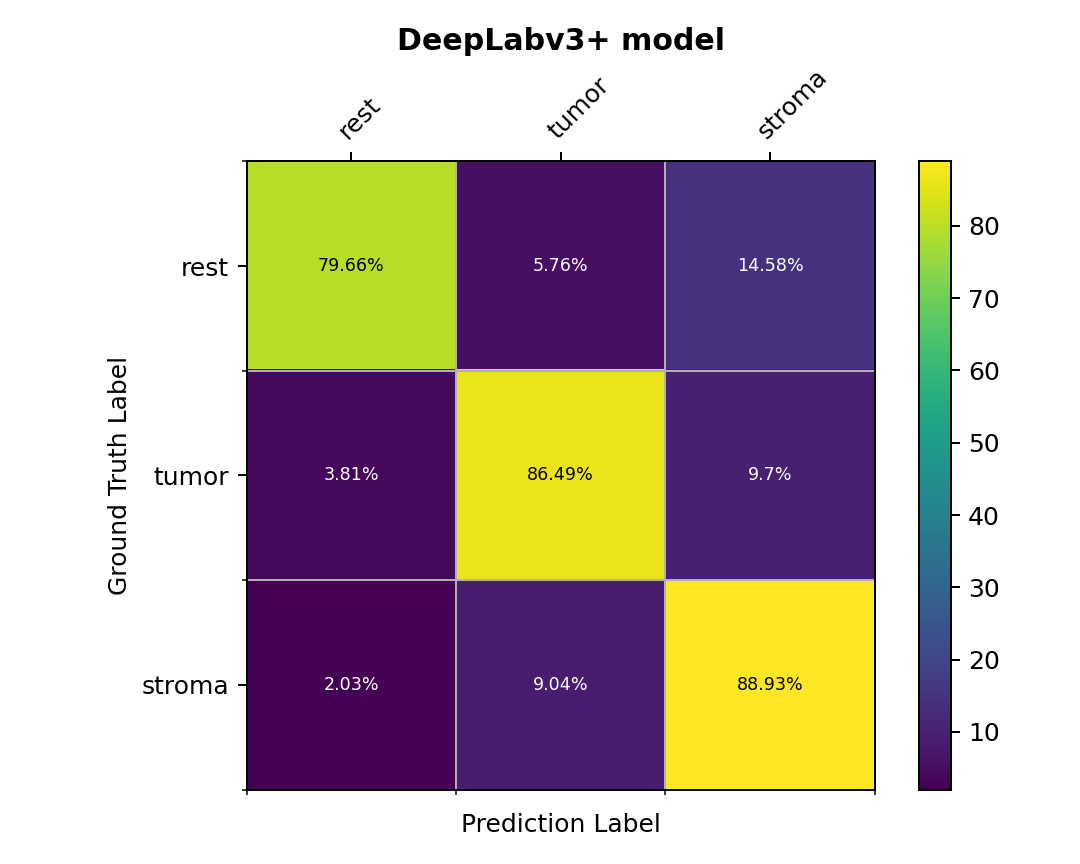
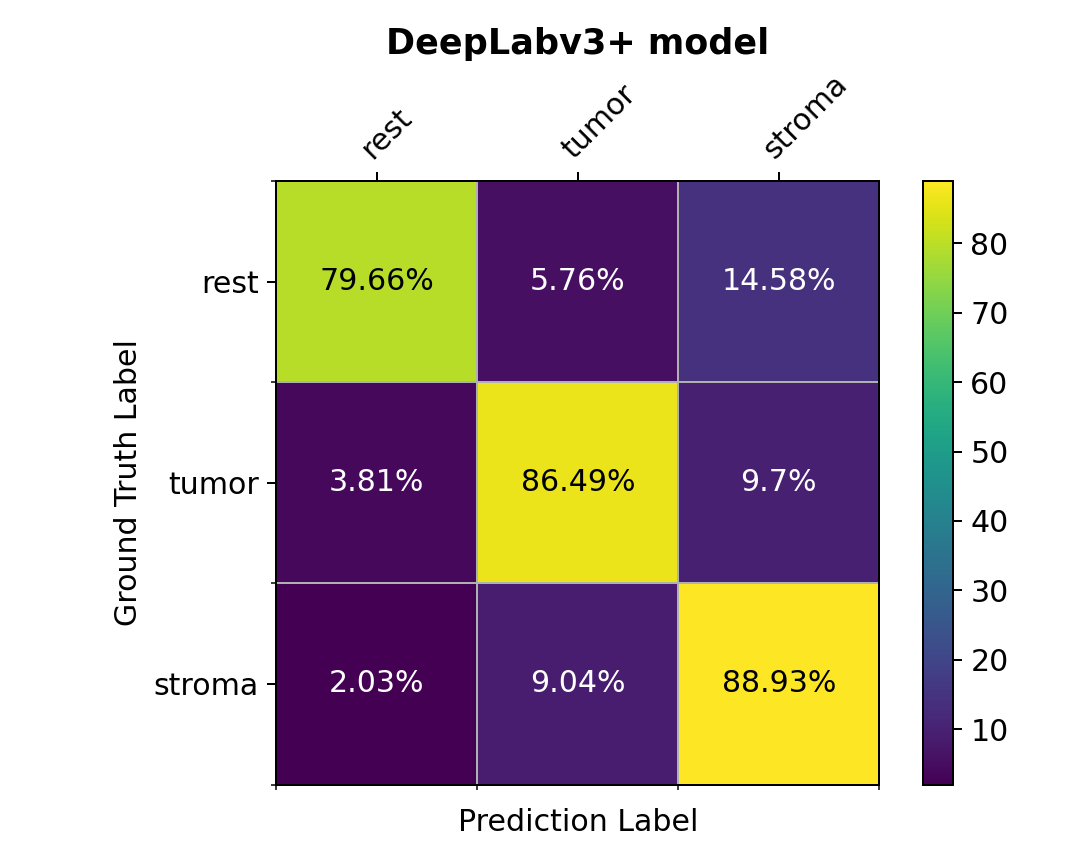
added first result images into text

diff --git a/chapters/05_results.tex b/chapters/05_results.tex
@@ -1,10 +1,95 @@
 \chapter{Results}
+\section{Tissue Segmentation}
 \begin{figure}
+\includegraphics[width=\linewidth]{figures/tissue/conf_matrices.png}
+\caption{EXAMPLES for TILs prediction models. A lot of test comming up here.}
+\label{fig:figure3}
+\end{figure}
 
+\begin{figure}
+\includegraphics[width=\linewidth]{figures/tissue/dices.png}
+\caption{EXAMPLES for TILs prediction models. A lot of test comming up here.}
+\label{fig:figure3}
+\end{figure}
+
+
+\begin{figure}
+\includegraphics[width=.5\linewidth]{figures/tissue/deeplabv3+_prec_roi_wsirois.png}
+\includegraphics[width=.5\linewidth]{figures/tissue/deeplabv3+_recall_roi_wsirois.png}
+
+\includegraphics[width=.5\linewidth]{figures/tissue/segformer_prec_roi_wsirois.png}
+\includegraphics[width=.5\linewidth]{figures/tissue/segformer_recall_roi_wsirois.png}
+
+\includegraphics[width=.5\linewidth]{figures/tissue/segformer,_adamw_prec_roi_wsirois.png}
+\includegraphics[width=.5\linewidth]{figures/tissue/segformer,_adamw_recall_roi_wsirois.png}
+
+\caption{EXAMPLES for TILs prediction models. A lot of test comming up here.}
+\label{fig:figure3}
+\end{figure}
+
+\begin{figure}
+\includegraphics[width=\linewidth]{figures/tissue/deeplabv3+_dice_s_250B_[16272, 25312, 17441, 26473]_check.png}
+\includegraphics[width=\linewidth]{figures/tissue/segformer_dice_s_250B_[16272, 25312, 17441, 26473]_check.png}
+\includegraphics[width=\linewidth]{figures/tissue/segformer,_adamw_dice_s_250B_[16272, 25312, 17441, 26473]_check.png}
+
+\caption{EXAMPLES for TILs prediction models. A lot of test comming up here.}
+\label{fig:figure3}
+\end{figure}
+
+\begin{figure}
+\includegraphics[width=\linewidth]{figures/tissue/deeplabv3+_dice_s_250B_[29477, 26912, 30725, 28086]_check.png}
+\includegraphics[width=\linewidth]{figures/tissue/segformer_dice_s_250B_[29477, 26912, 30725, 28086]_check.png}
+\includegraphics[width=\linewidth]{figures/tissue/segformer,_adamw_dice_s_250B_[29477, 26912, 30725, 28086]_check.png}
+
+\caption{EXAMPLES for TILs prediction models. A lot of test comming up here.}
+\label{fig:figure3}
+\end{figure}
+
+\begin{figure}
+\includegraphics[width=\linewidth]{figures/tissue/deeplabv3+_dice_tc_TC_S01_P000159_C0001_B108_[18565, 51594, 19649, 52655]_check.png}
+\includegraphics[width=\linewidth]{figures/tissue/segformer_dice_tc_TC_S01_P000159_C0001_B108_[18565, 51594, 19649, 52655]_check.png}
+\includegraphics[width=\linewidth]{figures/tissue/segformer,_adamw_dice_tc_TC_S01_P000159_C0001_B108_[18565, 51594, 19649, 52655]_check.png}
+
+\caption{EXAMPLES for TILs prediction models. A lot of test comming up here.}
+\label{fig:figure3}
+\end{figure}
+
+\begin{figure}
+\includegraphics[width=\linewidth]{figures/tissue/deeplabv3+_dice_tcga_TCGA-GM-A2DF-01Z-00-DX1.CD0BE6D7-2DB3-4193-84CC-F9BE7BF18CC2_[25322, 21890, 27778, 24293]_check.png}
+\includegraphics[width=\linewidth]{figures/tissue/segformer_dice_tcga_TCGA-GM-A2DF-01Z-00-DX1.CD0BE6D7-2DB3-4193-84CC-F9BE7BF18CC2_[25322, 21890, 27778, 24293]_check.png}
+\includegraphics[width=\linewidth]{figures/tissue/segformer,_adamw_dice_tcga_TCGA-GM-A2DF-01Z-00-DX1.CD0BE6D7-2DB3-4193-84CC-F9BE7BF18CC2_[25322, 21890, 27778, 24293]_check.png}
+
+\caption{EXAMPLES for TILs prediction models. A lot of test comming up here.}
+\label{fig:figure3}
+\end{figure}
+
+\begin{figure}
+\includegraphics[width=\linewidth]{figures/tissue/deeplabv3+_dice_tcga_TCGA-EW-A1P4-01Z-00-DX1.3E9AE553-83D4-4B09-AB7F-D096BCE3BC4D_[8630, 17717, 11173, 19809]_check.png}
+\includegraphics[width=\linewidth]{figures/tissue/segformer_dice_tcga_TCGA-EW-A1P4-01Z-00-DX1.3E9AE553-83D4-4B09-AB7F-D096BCE3BC4D_[8630, 17717, 11173, 19809]_check.png}
+\includegraphics[width=\linewidth]{figures/tissue/segformer,_adamw_dice_tcga_TCGA-EW-A1P4-01Z-00-DX1.3E9AE553-83D4-4B09-AB7F-D096BCE3BC4D_[8630, 17717, 11173, 19809]_check.png}
+
+\caption{EXAMPLES for TILs prediction models. A lot of test comming up here.}
+\label{fig:figure3}
+\end{figure}
+
+\section{TILs Segmentation}
+
+\begin{figure}
+\includegraphics[width=.5\linewidth]{figures/tils/deeplabv3+_f1_kappas_kernels_plot.png}
+\includegraphics[width=.5\linewidth]{figures/tils/segformer_f1_kappas_kernels_plot.png}
+
+\includegraphics[width=.5\linewidth]{figures/tils/deeplabv3+_f1_kappas_kernels_plot_zooomed.png}
+\includegraphics[width=.5\linewidth]{figures/tils/segformer,_adamw_f1_kappas_kernels_plot.png}
+
+\caption{EXAMPLES for TILs prediction models. A lot of test comming up here.}
+\label{fig:figure3}
+
+\end{figure}
+
+\begin{figure}
 \includegraphics[width=.305\textwidth]{figures/tils/TCGA-D8-A142-01Z-00-DX1_F1_deeplabv3+_adj.png}
 \includegraphics[width=.3\textwidth]{figures/tils/TCGA-D8-A142-01Z-00-DX1_F1_segformer_adj.png}
 \includegraphics[width=.319\textwidth]{figures/tils/TCGA-D8-A142-01Z-00-DX1_F1_segformer,_adamw_adj.png}
-
 \caption{EXAMPLES for TILs prediction models. A lot of test comming up here.}
 \label{fig:figure3}
 

diff --git a/pages/appendix.tex b/pages/appendix.tex
@@ -5,6 +5,26 @@ If there are several additions you want to add, but they do not fit into the the
 \section{Detailed Addition}
 
 Even sections are possible, but usually only used for several elements in, e.g.\ tables, images, etc.
+\chapter{Appendix}
+\begin{figure}
+\includegraphics[width=\linewidth]{figures/tissue/dices_patients.png}
+\caption{EXAMPLES for TILs prediction models. A lot of test comming up here.}
+\label{fig:figure3}
+\end{figure}
+
+\begin{figure}
+\includegraphics[width=.5\linewidth]{figures/tissue/deeplabv3+_prec_patient_wsirois.png}
+\includegraphics[width=.5\linewidth]{figures/tissue/deeplabv3+_recall_patient_wsirois.png}
+
+\includegraphics[width=.5\linewidth]{figures/tissue/segformer_prec_patient_wsirois.png}
+\includegraphics[width=.5\linewidth]{figures/tissue/segformer_recall_patient_wsirois.png}
+
+\includegraphics[width=.5\linewidth]{figures/tissue/segformer,_adamw_prec_patient_wsirois.png}
+\includegraphics[width=.5\linewidth]{figures/tissue/segformer,_adamw_recall_patient_wsirois.png}
+
+\caption{EXAMPLES for TILs prediction models. A lot of test comming up here.}
+\label{fig:figure3}
+\end{figure}
 
 \chapter{Figures}
 \section{Example 1}

diff --git a/main.tex b/main.tex
@@ -52,7 +52,7 @@
 \appendix{}
 
 % TODO: appendix chapter
-%\input{pages/appendix}
+\input{pages/appendix}
 
 \microtypesetup{protrusion=false}
 \listoffigures{}
